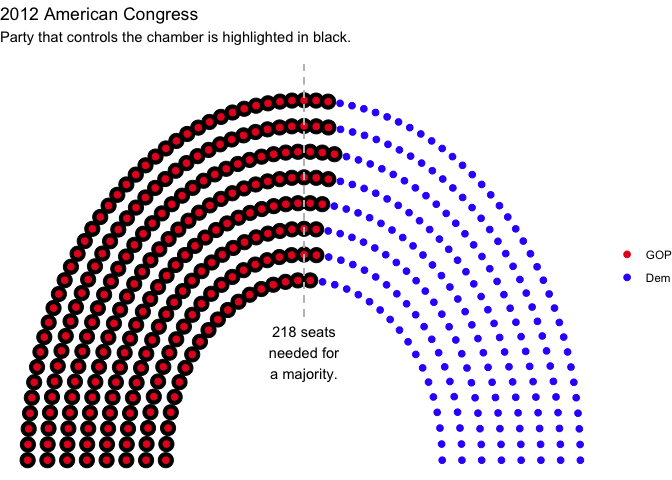
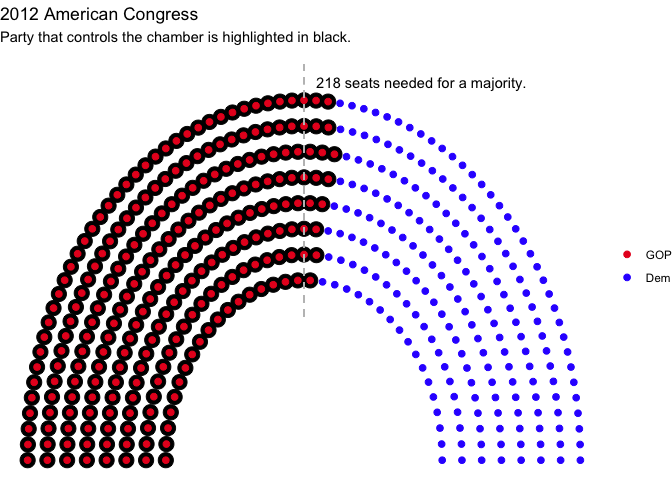
style edits made to README

Changed region(s): [[0.4062, 0.6562, 0.5, 0.8125], [0.4688, 0.1562, 0.7812, 0.1875]]

diff --git a/README.md b/README.md
@@ -11,7 +11,7 @@ output:
 
 # Parliament plots
 
-This package attempts to implement "parliament plots" - visual representations of the composition of legislatures that display seats color-coded by party. The input is a data frame containing one row per party, with columns representing party name/label and number of seats, respectively.
+This package attempts to implement "parliament plots" - visual representations of the composition of legislatures that display seats colour-coded by party. The input is a data frame containing one row per party, with columns representing party name/label and number of seats, respectively.
 
 This `R` package is a `ggplot2` extension.
 
@@ -44,7 +44,7 @@ It is a pretty useful reference.
 ```r
 us_congress <- election_data %>%
   filter(country == "USA" &
-    year == "2016" &
+    year == 2016 &
     house == "Representatives")
 
 us_congress1 <- parliament_data(election_data = us_congress,
@@ -56,7 +56,7 @@ us_congress1 <- parliament_data(election_data = us_congress,
 
 us_senate <- election_data %>%
   filter(country == "USA" &
-    year == "2016" &
+    year == 2016 &
     house == "Senate")
 
 
@@ -71,12 +71,16 @@ us_senate <- parliament_data(
 
 
 ```r
-ggplot(us_congress1, aes(x, y, colour = party_short)) +
+ggplot(us_congress1, aes(x, 
+                         y, 
+                         colour = party_short)) +
   geom_parliament_seats() + 
   geom_highlight_government(government == 1) +
   theme_void() +
-  labs(colour = "", title = "United States Congress") +
-  annotate("text", x=0, y=0, label=paste("Total:", sum(us_congress$seats), "Reps"), fontface="bold", size=8) +
+  labs(colour = NULL, 
+       title = "United States Congress") +
+  annotate("text", x=0, y=0, 
+           label=paste("Total:", sum(us_congress$seats), "Reps"), fontface="bold", size=8) +
   scale_colour_manual(values = us_congress1$colour, 
                       limits = us_congress1$party_short)
 ```
@@ -87,14 +91,17 @@ ggplot(us_congress1, aes(x, y, colour = party_short)) +
 
 
 ```r
-senate <- ggplot(us_senate, aes(x=x, y=y, colour=party_long)) +
+senate <- ggplot(us_senate, aes(x, 
+                                y, 
+                                colour = party_long)) +
   geom_parliament_seats() + 
   geom_highlight_government(government == 1) +
   theme_void() +
-  labs(colour = "", 
+  labs(colour = NULL, 
        title = "United States Senate",
        subtitle = "The party that has control of the Senate is encircled in black.") +
-  scale_colour_manual(values = us_senate$colour, limits=us_senate$party_long)
+  scale_colour_manual(values = us_senate$colour,
+                      limits = us_senate$party_long)
 senate 
 ```
 
@@ -106,20 +113,25 @@ senate
 
 ```r
 germany <- election_data %>%
-  filter(year==2017 & country=="Germany") 
+  filter(year == 2017 & 
+           country == "Germany") 
 
-germany <- parliament_data(election_data=germany, 
+germany <- parliament_data(election_data = germany, 
                            total_seats = sum(germany$seats), 
-                           parl_rows=10,
-                           party_seats=germany$seats, 
-                           type='semicircle')
+                           parl_rows = 10,
+                           party_seats = germany$seats, 
+                           type = 'semicircle')
 
-ggplot(germany, aes(x,y,colour=party_short))+
+ggplot(germany, aes(x,
+                    y,
+                    colour = party_short))+
   geom_parliament_seats()+
   geom_highlight_government(government==1) + 
-  labs(colour="Party", title="Germany 2017 Election Results") + 
+  labs(colour="Party", 
+       title="Germany 2017 Election Results") + 
   theme_void()+
-  scale_colour_manual(values = germany$colour, limits=germany$party_short)
+  scale_colour_manual(values = germany$colour, 
+                      limits = germany$party_short)
 ```
 
 ![](README_files/figure-html/unnamed-chunk-6-1.png)<!-- -->
@@ -132,13 +144,14 @@ ggplot(germany, aes(x,y,colour=party_short))+
 ```r
 #data preparation
 uk_17 <- election_data %>% 
-  filter(country=="UK" & year=="2017")
+  filter(country == "UK" & 
+           year == "2017")
 
 
 uk_17_left <- uk_17 %>% 
-  filter(government==0)
+  filter(government == 0)
 uk_17_right <- uk_17 %>% 
-  filter(government==1)
+  filter(government == 1)
 
 
 uk_17_left <- parliament_data(election_data = uk_17_left,
@@ -154,27 +167,32 @@ uk_17_right <- parliament_data(election_data = uk_17_right,
   parl_rows = 12,
   type = "opposing_benches")
 
-right <- ggplot(uk_17_right, aes(x, y, color=party_short)) +
+right <- ggplot(uk_17_right, aes(x, 
+                                 y, 
+                                 colour = party_short)) +
   geom_parliament_seats() + 
   theme_void() +
-  labs(colour = "") +
+  labs(colour = NULL) +
   geom_highlight_government(government==1) + 
   scale_colour_manual(values = uk_17_right$colour, 
                       limits = uk_17_right$party_short) +
   theme(legend.position = 'right')
 
 
-left <- ggplot(uk_17_left, aes(x, y, color=party_short)) +
+left <- ggplot(uk_17_left, aes(x, 
+                               y, 
+                               colour = party_short)) +
   geom_parliament_seats() + 
   theme_void() +
-  labs(colour = "", 
+  labs(colour = NULL, 
        title = "UK parliament in 2017",
        subtitle="Government encircled in black.") +
   scale_colour_manual(values = uk_17_left$colour, 
                       limits = uk_17_left$party_short) +
   theme(legend.position = 'left') 
 
-uk_parliament<- combine_opposingbenches(left=left, right=right)
+uk_parliament<- combine_opposingbenches(left = left, 
+                                        right = right)
 uk_parliament
 ```
 
@@ -191,7 +209,7 @@ uk_parliament
 australia <- election_data %>%
   filter(country == "Australia" &
     house == "Representatives" &
-    year == "2016") 
+    year == 2016) 
 
 australia1 <- parliament_data(election_data = australia,
   total_seats = sum(australia$seats),
@@ -204,11 +222,13 @@ australia1 <- parliament_data(election_data = australia,
 
 
 ```r
-au <-ggplot(australia1, aes(x, y, color=party_short)) +
+au <-ggplot(australia1, aes(x, 
+                            y, 
+                            colour = party_short)) +
   geom_parliament_seats() + 
   theme_void() +
-  geom_highlight_government(government==1) + 
-  labs(colour = "", 
+  geom_highlight_government(government == 1) + 
+  labs(colour = NULL, 
        title = "Australian Parliament",
        subtitle = "Government encircled in black.") +
   scale_colour_manual(values = australia$colour, 
@@ -252,17 +272,19 @@ usa <- election_data %>%
 
 
 ```r
-ggplot(usa, aes(x, y, color=party_short)) +
+ggplot(usa, aes(x, 
+                y, 
+                colour = party_short)) +
   geom_parliament_seats() + 
-  theme_void() +
-  geom_highlight_government(government==1) + 
-  labs(colour = "", 
+  geom_highlight_government(government == 1) + 
+  labs(colour = NULL, 
        title = "American Congress",
        subtitle = "The party that has control of US Congress is encircled in black.") +
+  theme_void() +
   scale_colour_manual(values = usa$colour, 
                       limits = usa$party_short) + 
   theme(legend.position = 'bottom') + 
-  facet_grid(~year, scales='free') 
+  facet_grid(~year, scales = 'free') 
 ```
 
 ![](README_files/figure-html/unnamed-chunk-11-1.png)<!-- -->
@@ -285,17 +307,19 @@ australia <- election_data %>%
 
 
 ```r
-ggplot(australia, aes(x, y, color=party_short)) +
+ggplot(australia, aes(x, 
+                      y, 
+                      colour=party_short)) +
   geom_parliament_seats() + 
-  theme_void() +
-  geom_highlight_government(government==1) + 
-  labs(colour = "", 
+  geom_highlight_government(government == 1) + 
+  labs(colour = NULL, 
        title = "Australian Parliament",
        subtitle = "Government encircled in black.") +
   scale_colour_manual(values = australia$colour, 
                       limits = australia$party_short) + 
+  theme_void() +
   theme(legend.position = 'bottom') + 
-  facet_grid(~house, scales='free')
+  facet_grid(~house, scales = 'free')
 ```
 
 ![](README_files/figure-html/unnamed-chunk-13-1.png)<!-- -->
@@ -305,7 +329,8 @@ ggplot(australia, aes(x, y, color=party_short)) +
 
 ```r
 uk_left<- election_data %>%
-  filter(country == "UK" & government==0)  %>%
+  filter(country == "UK" & 
+           government == 0)  %>%
   split(.$year) %>%
   map(~parliament_data(election_data = .,
   total_seats = sum(.$seats),
@@ -315,7 +340,8 @@ uk_left<- election_data %>%
   bind_rows()
 
 uk_right<-election_data %>%
-  filter(country == "UK" & government=="1")  %>%
+  filter(country == "UK" & 
+           government == 1)  %>%
   split(.$year) %>%
   map(~parliament_data(election_data = .,
   total_seats = sum(.$seats),
@@ -328,29 +354,34 @@ uk_right<-election_data %>%
 
 
 ```r
-right_all <- ggplot(uk_right, aes(x, y, color=party_short)) +
+right_all <- ggplot(uk_right, aes(x, 
+                                  y, 
+                                  colour = party_short)) +
   geom_parliament_seats() + 
+  geom_highlight_government(government == 1) + 
   theme_void() +
-  labs(colour = "") +
-  geom_highlight_government(government==1) + 
+  labs(colour = NULL) +
   scale_colour_manual(values = uk_right$colour, 
                       limits = uk_right$party_short) +
   theme(legend.position = 'right')+
-  facet_wrap(~year, ncol=1)
+  facet_wrap(~year, ncol = 1)
 
 
-left_all <- ggplot(uk_left, aes(x, y, color=party_short)) +
+left_all <- ggplot(uk_left, aes(x, 
+                                y, 
+                                colour = party_short)) +
   geom_parliament_seats() + 
   theme_void() +
-  labs(colour = "", 
+  labs(colour = NULL, 
        title = "UK parliament",
        subtitle="Government encircled in black.") +
   scale_colour_manual(values = uk_left$colour, 
                       limits = uk_left$party_short) +
   theme(legend.position = 'left') +
-  facet_wrap(~year, ncol=1)
+  facet_wrap(~year, ncol = 1)
 
-uk_parliament_10_15_17 <- combine_opposingbenches(left=left_all, right=right_all)
+uk_parliament_10_15_17 <- combine_opposingbenches(left = left_all, 
+                                                  right = right_all)
 uk_parliament_10_15_17
 ```
 
@@ -373,18 +404,20 @@ usa_12 <- election_data %>%
   party_seats = .$seats,
   parl_rows = 8,
   type = "semicircle")
-ggplot(usa_12, aes(x, y, color=party_short)) +
+ggplot(usa_12, aes(x, 
+                   y, 
+                   colour = party_short)) +
   geom_parliament_seats() + 
+  geom_highlight_government(government == 1) + 
+  draw_majoritythreshold(n = 218,
+                         type = "semicircle") + 
   theme_void() +
-  geom_highlight_government(government==1) + 
   labs(colour = NULL, 
        title = "2012 American Congress",
        subtitle = "Party that controls the chamber is highlighted in black.") +
   scale_colour_manual(values = usa_12$colour, 
                       limits = usa_12$party_short) + 
-  theme(legend.position = 'right') + 
-  draw_majoritythreshold(n = 218, 
-                    type = "semicircle")
+  theme(legend.position = 'right') 
 ```
 
 ![](README_files/figure-html/unnamed-chunk-16-1.png)<!-- -->
@@ -392,19 +425,22 @@ ggplot(usa_12, aes(x, y, color=party_short)) +
 
 ```r
 # redraw the right hand side for the UK with draw_majoritythreshold()
-right_new <- ggplot(uk_17_right, aes(x, y, color=party_short)) +
+right_new <- ggplot(uk_17_right, aes(x, 
+                                     y, 
+                                     colour = party_short)) +
   geom_parliament_seats() + 
+  geom_highlight_government(government == 1) + 
+  draw_majoritythreshold(n = 326,
+                         type = 'opposing_benches') + 
   theme_void() +
-  labs(colour = "") +
-  geom_highlight_government(government==1) + 
-  draw_majoritythreshold(n=326, 
-                    type = 'opposing_benches') + 
+  labs(colour = NULL) +
   scale_colour_manual(values = uk_17_right$colour, 
                       limits = uk_17_right$party_short) +
   theme(legend.position = 'right')
 
 # combine
-uk_parliament<- combine_opposingbenches(left=left, right=right_new)
+uk_parliament<- combine_opposingbenches(left = left, 
+                                        right = right_new)
 uk_parliament
 ```
 
@@ -418,7 +454,7 @@ Note: This works but we need to fix up our data. Australia, for example, has had
 
 ## Women in parliament
 
-`geom_women_in_parliament()` now exists. When the user defines women MPs in the plot, the alpha on other MPs is set to 0.5, effectively bringing women to the forefront.
+`geom_women_in_parliament()` now exists. When the user defines women MPs in the plot, the alpha on other MPs is set to 0.5, bringing women to the forefront.
 
 ## Electoral quotas
 
